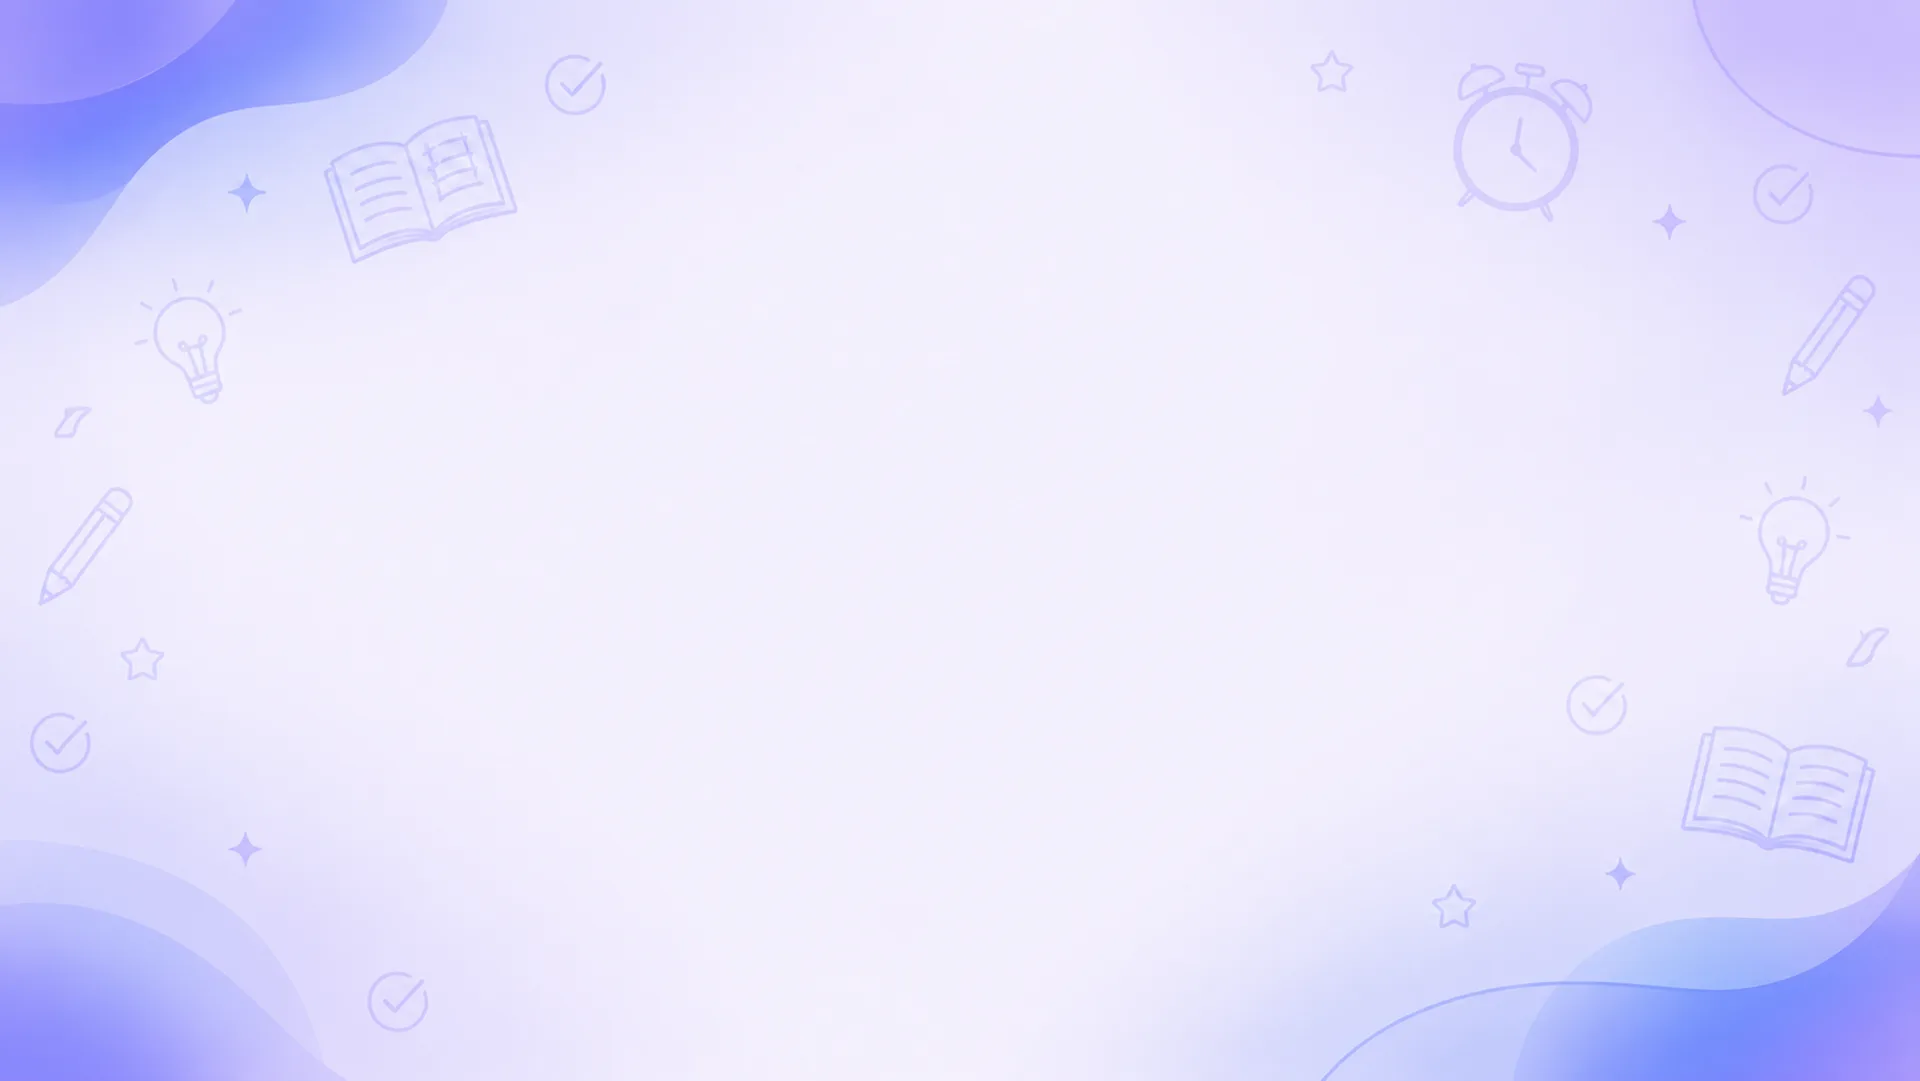
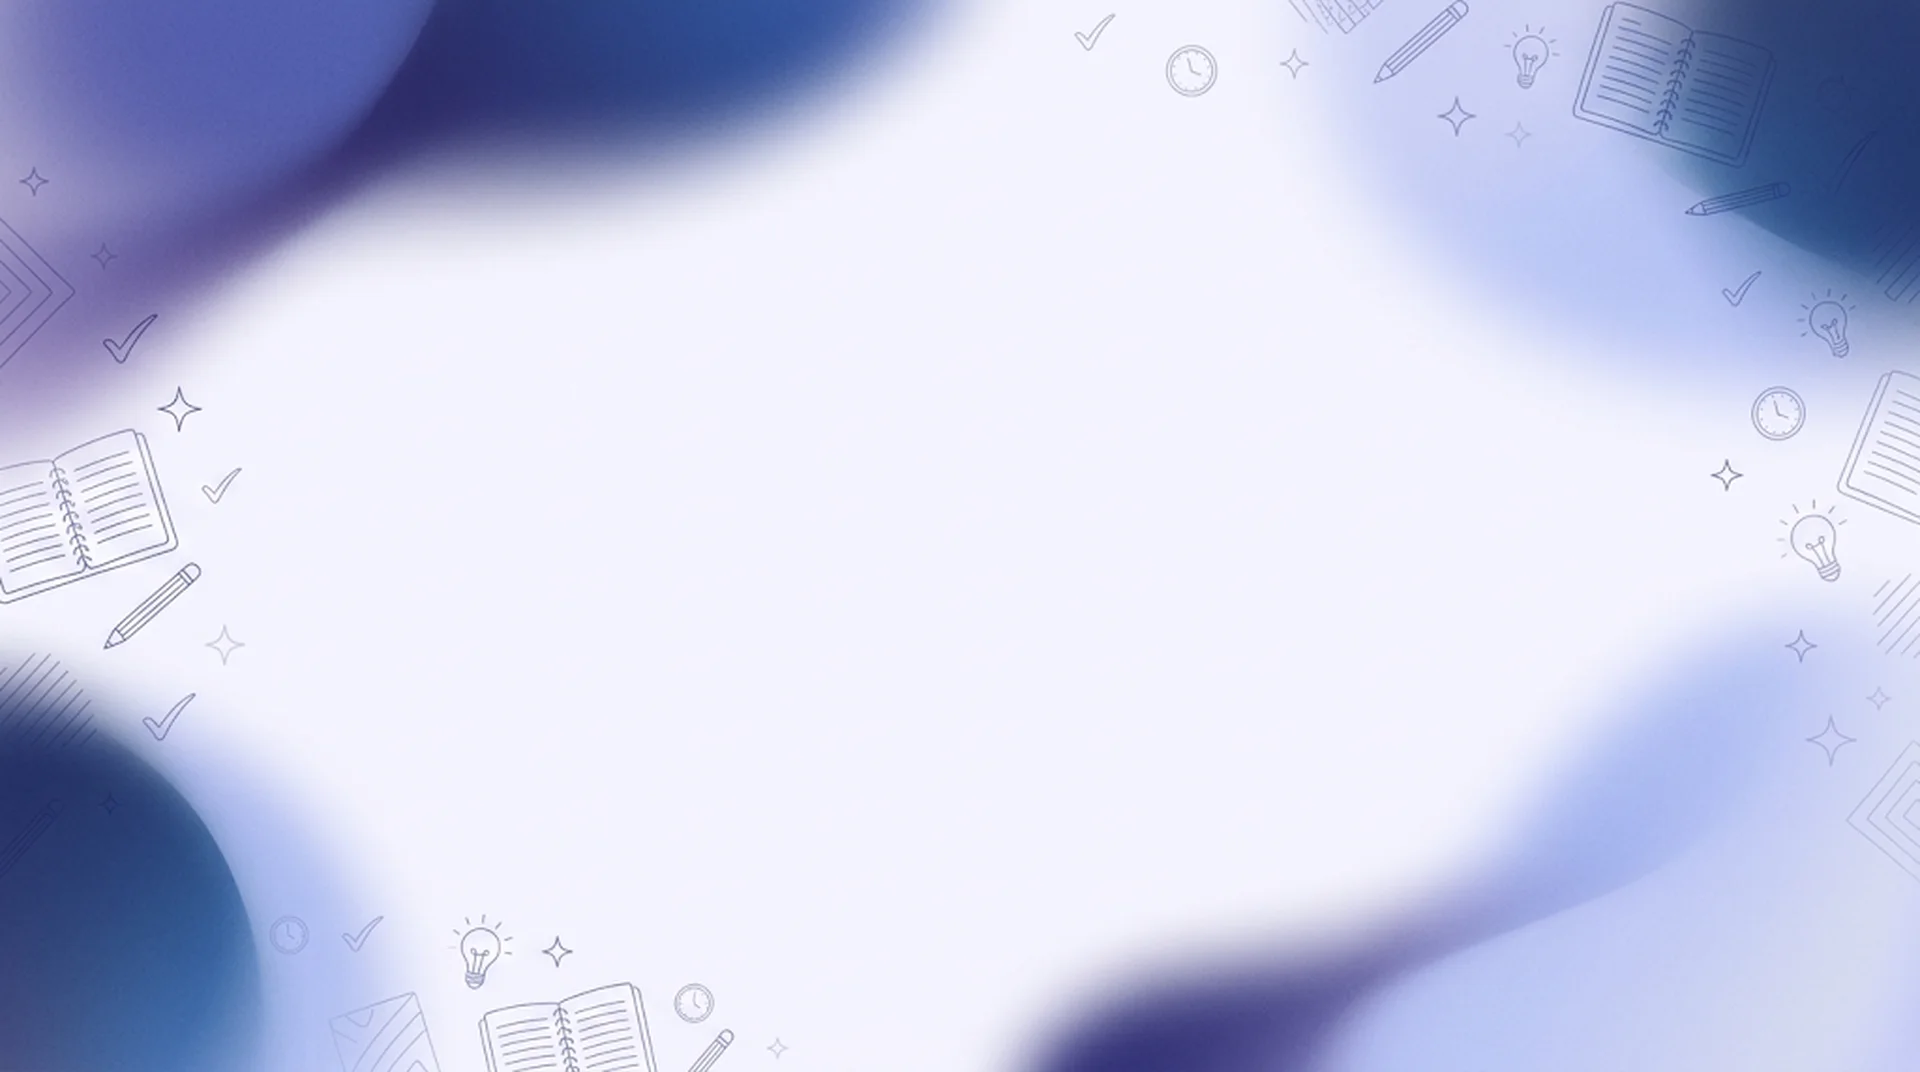
Sınav haftası arka planı: yeni görsel
Claude-Session: https://claude.ai/code/session_018TLhX8wUDxrJD7uriKCziw

diff --git a/sw.js b/sw.js
@@ -4,7 +4,7 @@
    - Sürüm numaralı (?v=) JS ve CSS: önbellekten anında, arkada yenisi iner. Dosyayı değiştirince ?v= numarasını artır.
    - Sürüm numarasız JS: önce internetten, olmazsa önbellekten.
    - Görseller, PDF'ler ve yazı tipleri: önce önbellekten. */
-const SURUM = "kc-v240";
+const SURUM = "kc-v241";
 const TEMEL = ["./", "index.html", "veri.js", "cerez.js", "tema.js", "favicon.svg", "manifest.webmanifest",
                "ikonlar/ikon-192.png", "ikonlar/ikon-512.png", "kc.css", "ana.css", "takvim-izgara.js", "masaustu.css", "uygulama.css", "yazitipi/nunito-latin.woff2", "yazitipi/nunito-latin-ext.woff2", "kodatolye.js", "vize.js", "dersler.html", "gizlilik.html", "hakkimizda.html", "404.html"];
 const SAYFA_BEKLE = 3000;

diff --git a/ders.html b/ders.html
@@ -313,7 +313,7 @@ body { overflow-x: hidden; }
 <style>body{padding-top:max(env(safe-area-inset-top,0px),var(--safe-area-inset-top,0px))}.alt-menu,.yan{margin-bottom:max(env(safe-area-inset-bottom,0px),var(--safe-area-inset-bottom,0px))}</style>
 <script src="/tema.js?v=22"></script>
 <script src="/duyuru.js?v=5" defer></script>
-<script defer src="/ozelgun.js?v=11"></script>
+<script defer src="/ozelgun.js?v=12"></script>
 <script>if("serviceWorker" in navigator)addEventListener("load",()=>navigator.serviceWorker.register("sw.js",{scope:"./"}).catch(()=>{}));</script>
 <!-- /PWA -->
 <link rel="stylesheet" href="/masaustu.css?v=3">

diff --git a/dersler.html b/dersler.html
@@ -76,7 +76,7 @@ sub, sup { font-size: .72em; }
 <style>body{padding-top:max(env(safe-area-inset-top,0px),var(--safe-area-inset-top,0px))}.alt-menu,.yan{margin-bottom:max(env(safe-area-inset-bottom,0px),var(--safe-area-inset-bottom,0px))}</style>
 <script src="/tema.js?v=22"></script>
 <script src="/duyuru.js?v=5" defer></script>
-<script defer src="/ozelgun.js?v=11"></script>
+<script defer src="/ozelgun.js?v=12"></script>
 <script>if("serviceWorker" in navigator)addEventListener("load",()=>navigator.serviceWorker.register("sw.js",{scope:"./"}).catch(()=>{}));</script>
 <!-- /PWA -->
 <link rel="stylesheet" href="/masaustu.css?v=3">

diff --git a/notlar/ybs/1/bilisim-sistemleri/unite-1.html b/notlar/ybs/1/bilisim-sistemleri/unite-1.html
@@ -79,7 +79,7 @@ sub, sup { font-size: .72em; }
 <style>body{padding-top:max(env(safe-area-inset-top,0px),var(--safe-area-inset-top,0px))}.alt-menu,.yan{margin-bottom:max(env(safe-area-inset-bottom,0px),var(--safe-area-inset-bottom,0px))}</style>
 <script src="/tema.js?v=21"></script>
 <script src="/duyuru.js?v=5" defer></script>
-<script defer src="/ozelgun.js?v=11"></script>
+<script defer src="/ozelgun.js?v=12"></script>
 <script>if("serviceWorker" in navigator)addEventListener("load",()=>navigator.serviceWorker.register("../../../../sw.js",{scope:"../../../../"}).catch(()=>{}));</script>
 <!-- /PWA -->
 </head>

diff --git a/notlar/ybs/1/bilisim-sistemleri/unite-2.html b/notlar/ybs/1/bilisim-sistemleri/unite-2.html
@@ -79,7 +79,7 @@ sub, sup { font-size: .72em; }
 <style>body{padding-top:max(env(safe-area-inset-top,0px),var(--safe-area-inset-top,0px))}.alt-menu,.yan{margin-bottom:max(env(safe-area-inset-bottom,0px),var(--safe-area-inset-bottom,0px))}</style>
 <script src="/tema.js?v=21"></script>
 <script src="/duyuru.js?v=5" defer></script>
-<script defer src="/ozelgun.js?v=11"></script>
+<script defer src="/ozelgun.js?v=12"></script>
 <script>if("serviceWorker" in navigator)addEventListener("load",()=>navigator.serviceWorker.register("../../../../sw.js",{scope:"../../../../"}).catch(()=>{}));</script>
 <!-- /PWA -->
 </head>

diff --git a/notlar/ybs/1/bilisim-sistemleri/unite-3.html b/notlar/ybs/1/bilisim-sistemleri/unite-3.html
@@ -79,7 +79,7 @@ sub, sup { font-size: .72em; }
 <style>body{padding-top:max(env(safe-area-inset-top,0px),var(--safe-area-inset-top,0px))}.alt-menu,.yan{margin-bottom:max(env(safe-area-inset-bottom,0px),var(--safe-area-inset-bottom,0px))}</style>
 <script src="/tema.js?v=21"></script>
 <script src="/duyuru.js?v=5" defer></script>
-<script defer src="/ozelgun.js?v=11"></script>
+<script defer src="/ozelgun.js?v=12"></script>
 <script>if("serviceWorker" in navigator)addEventListener("load",()=>navigator.serviceWorker.register("../../../../sw.js",{scope:"../../../../"}).catch(()=>{}));</script>
 <!-- /PWA -->
 </head>

diff --git a/notlar/ybs/1/bilisim-sistemleri/unite-4.html b/notlar/ybs/1/bilisim-sistemleri/unite-4.html
@@ -79,7 +79,7 @@ sub, sup { font-size: .72em; }
 <style>body{padding-top:max(env(safe-area-inset-top,0px),var(--safe-area-inset-top,0px))}.alt-menu,.yan{margin-bottom:max(env(safe-area-inset-bottom,0px),var(--safe-area-inset-bottom,0px))}</style>
 <script src="/tema.js?v=21"></script>
 <script src="/duyuru.js?v=5" defer></script>
-<script defer src="/ozelgun.js?v=11"></script>
+<script defer src="/ozelgun.js?v=12"></script>
 <script>if("serviceWorker" in navigator)addEventListener("load",()=>navigator.serviceWorker.register("../../../../sw.js",{scope:"../../../../"}).catch(()=>{}));</script>
 <!-- /PWA -->
 </head>

diff --git a/notlar/ybs/1/bilisim-sistemleri/unite-5.html b/notlar/ybs/1/bilisim-sistemleri/unite-5.html
@@ -79,7 +79,7 @@ sub, sup { font-size: .72em; }
 <style>body{padding-top:max(env(safe-area-inset-top,0px),var(--safe-area-inset-top,0px))}.alt-menu,.yan{margin-bottom:max(env(safe-area-inset-bottom,0px),var(--safe-area-inset-bottom,0px))}</style>
 <script src="/tema.js?v=21"></script>
 <script src="/duyuru.js?v=5" defer></script>
-<script defer src="/ozelgun.js?v=11"></script>
+<script defer src="/ozelgun.js?v=12"></script>
 <script>if("serviceWorker" in navigator)addEventListener("load",()=>navigator.serviceWorker.register("../../../../sw.js",{scope:"../../../../"}).catch(()=>{}));</script>
 <!-- /PWA -->
 </head>

diff --git a/notlar/ybs/1/bilisim-sistemleri/unite-6.html b/notlar/ybs/1/bilisim-sistemleri/unite-6.html
@@ -79,7 +79,7 @@ sub, sup { font-size: .72em; }
 <style>body{padding-top:max(env(safe-area-inset-top,0px),var(--safe-area-inset-top,0px))}.alt-menu,.yan{margin-bottom:max(env(safe-area-inset-bottom,0px),var(--safe-area-inset-bottom,0px))}</style>
 <script src="/tema.js?v=21"></script>
 <script src="/duyuru.js?v=5" defer></script>
-<script defer src="/ozelgun.js?v=11"></script>
+<script defer src="/ozelgun.js?v=12"></script>
 <script>if("serviceWorker" in navigator)addEventListener("load",()=>navigator.serviceWorker.register("../../../../sw.js",{scope:"../../../../"}).catch(()=>{}));</script>
 <!-- /PWA -->
 </head>

diff --git a/notlar/ybs/1/bilisim-sistemleri/unite-7.html b/notlar/ybs/1/bilisim-sistemleri/unite-7.html
@@ -79,7 +79,7 @@ sub, sup { font-size: .72em; }
 <style>body{padding-top:max(env(safe-area-inset-top,0px),var(--safe-area-inset-top,0px))}.alt-menu,.yan{margin-bottom:max(env(safe-area-inset-bottom,0px),var(--safe-area-inset-bottom,0px))}</style>
 <script src="/tema.js?v=21"></script>
 <script src="/duyuru.js?v=5" defer></script>
-<script defer src="/ozelgun.js?v=11"></script>
+<script defer src="/ozelgun.js?v=12"></script>
 <script>if("serviceWorker" in navigator)addEventListener("load",()=>navigator.serviceWorker.register("../../../../sw.js",{scope:"../../../../"}).catch(()=>{}));</script>
 <!-- /PWA -->
 </head>

diff --git a/notlar/ybs/1/bilisim-sistemleri/unite-8.html b/notlar/ybs/1/bilisim-sistemleri/unite-8.html
@@ -79,7 +79,7 @@ sub, sup { font-size: .72em; }
 <style>body{padding-top:max(env(safe-area-inset-top,0px),var(--safe-area-inset-top,0px))}.alt-menu,.yan{margin-bottom:max(env(safe-area-inset-bottom,0px),var(--safe-area-inset-bottom,0px))}</style>
 <script src="/tema.js?v=21"></script>
 <script src="/duyuru.js?v=5" defer></script>
-<script defer src="/ozelgun.js?v=11"></script>
+<script defer src="/ozelgun.js?v=12"></script>
 <script>if("serviceWorker" in navigator)addEventListener("load",()=>navigator.serviceWorker.register("../../../../sw.js",{scope:"../../../../"}).catch(()=>{}));</script>
 <!-- /PWA -->
 </head>

diff --git a/notlar/ybs/1/veri-tabanina-giris/unite-1.html b/notlar/ybs/1/veri-tabanina-giris/unite-1.html
@@ -79,7 +79,7 @@ sub, sup { font-size: .72em; }
 <style>body{padding-top:max(env(safe-area-inset-top,0px),var(--safe-area-inset-top,0px))}.alt-menu,.yan{margin-bottom:max(env(safe-area-inset-bottom,0px),var(--safe-area-inset-bottom,0px))}</style>
 <script src="/tema.js?v=21"></script>
 <script src="/duyuru.js?v=5" defer></script>
-<script defer src="/ozelgun.js?v=11"></script>
+<script defer src="/ozelgun.js?v=12"></script>
 <script>if("serviceWorker" in navigator)addEventListener("load",()=>navigator.serviceWorker.register("../../../../sw.js",{scope:"../../../../"}).catch(()=>{}));</script>
 <!-- /PWA -->
 </head>
